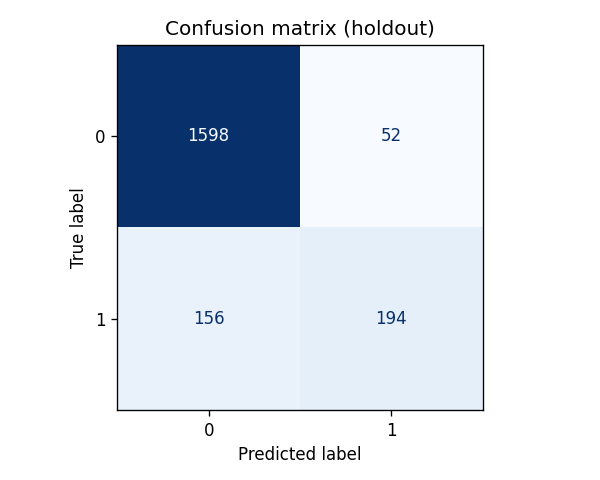
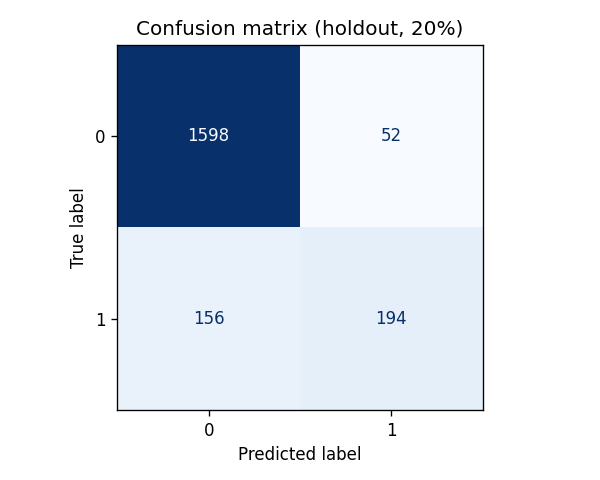
feat: save confusion matrix and ROC curve plots

Changed region(s): [[0.21, 0.0312, 0.78, 0.0938]]

diff --git a/src/plot_evaluation.py b/src/plot_evaluation.py
@@ -1,0 +1,85 @@
+"""
+Re-generate evaluation plots from the saved model.
+
+Produces:
+    plots/confusion_matrix.png
+    plots/roc_curve.png
+    plots/calibration_curve.png
+
+Usage:
+    python src/plot_evaluation.py
+"""
+from __future__ import annotations
+
+from pathlib import Path
+
+import joblib
+import matplotlib
+matplotlib.use("Agg")
+
+import matplotlib.pyplot as plt
+from sklearn.calibration import CalibrationDisplay
+from sklearn.metrics import ConfusionMatrixDisplay, RocCurveDisplay
+
+from src.preprocessing import load_data
+from sklearn.model_selection import train_test_split
+
+
+PLOTS_DIR = Path("plots")
+MODEL_PATH = Path("models/best_model.joblib")
+
+
+def main() -> None:
+    if not MODEL_PATH.exists():
+        print(f"Model not found at {MODEL_PATH}. Run src/train.py first.")
+        return
+
+    PLOTS_DIR.mkdir(exist_ok=True)
+    pipeline = joblib.load(MODEL_PATH)
+    print(f"Loaded: {MODEL_PATH}")
+
+    X, y = load_data()
+    _, X_test, _, y_test = train_test_split(X, y, test_size=0.20, stratify=y, random_state=42)
+
+    y_pred = pipeline.predict(X_test)
+    y_prob = pipeline.predict_proba(X_test)[:, 1]
+
+    # confusion matrix
+    fig, ax = plt.subplots(figsize=(5, 4))
+    ConfusionMatrixDisplay.from_predictions(
+        y_test, y_pred, ax=ax, colorbar=False, cmap="Blues"
+    )
+    ax.set_title("Confusion matrix (holdout, 20%)")
+    fig.tight_layout()
+    out = PLOTS_DIR / "confusion_matrix.png"
+    fig.savefig(out, dpi=120)
+    plt.close()
+    print(f"Saved {out}")
+
+    # ROC curve
+    fig, ax = plt.subplots(figsize=(5, 4))
+    RocCurveDisplay.from_predictions(y_test, y_prob, ax=ax, name="Gradient boosting")
+    ax.plot([0, 1], [0, 1], linestyle="--", color="gray", label="Random")
+    ax.set_title("ROC curve (holdout, 20%)")
+    ax.legend(fontsize=9)
+    fig.tight_layout()
+    out = PLOTS_DIR / "roc_curve.png"
+    fig.savefig(out, dpi=120)
+    plt.close()
+    print(f"Saved {out}")
+
+    # calibration curve
+    fig, ax = plt.subplots(figsize=(5, 4))
+    CalibrationDisplay.from_predictions(
+        y_test, y_prob, n_bins=10, ax=ax, name="Gradient boosting"
+    )
+    ax.set_title("Calibration curve (holdout)")
+    fig.tight_layout()
+    out = PLOTS_DIR / "calibration_curve.png"
+    fig.savefig(out, dpi=120)
+    plt.close()
+    print(f"Saved {out}")
+
+
+if __name__ == "__main__":
+    main()
